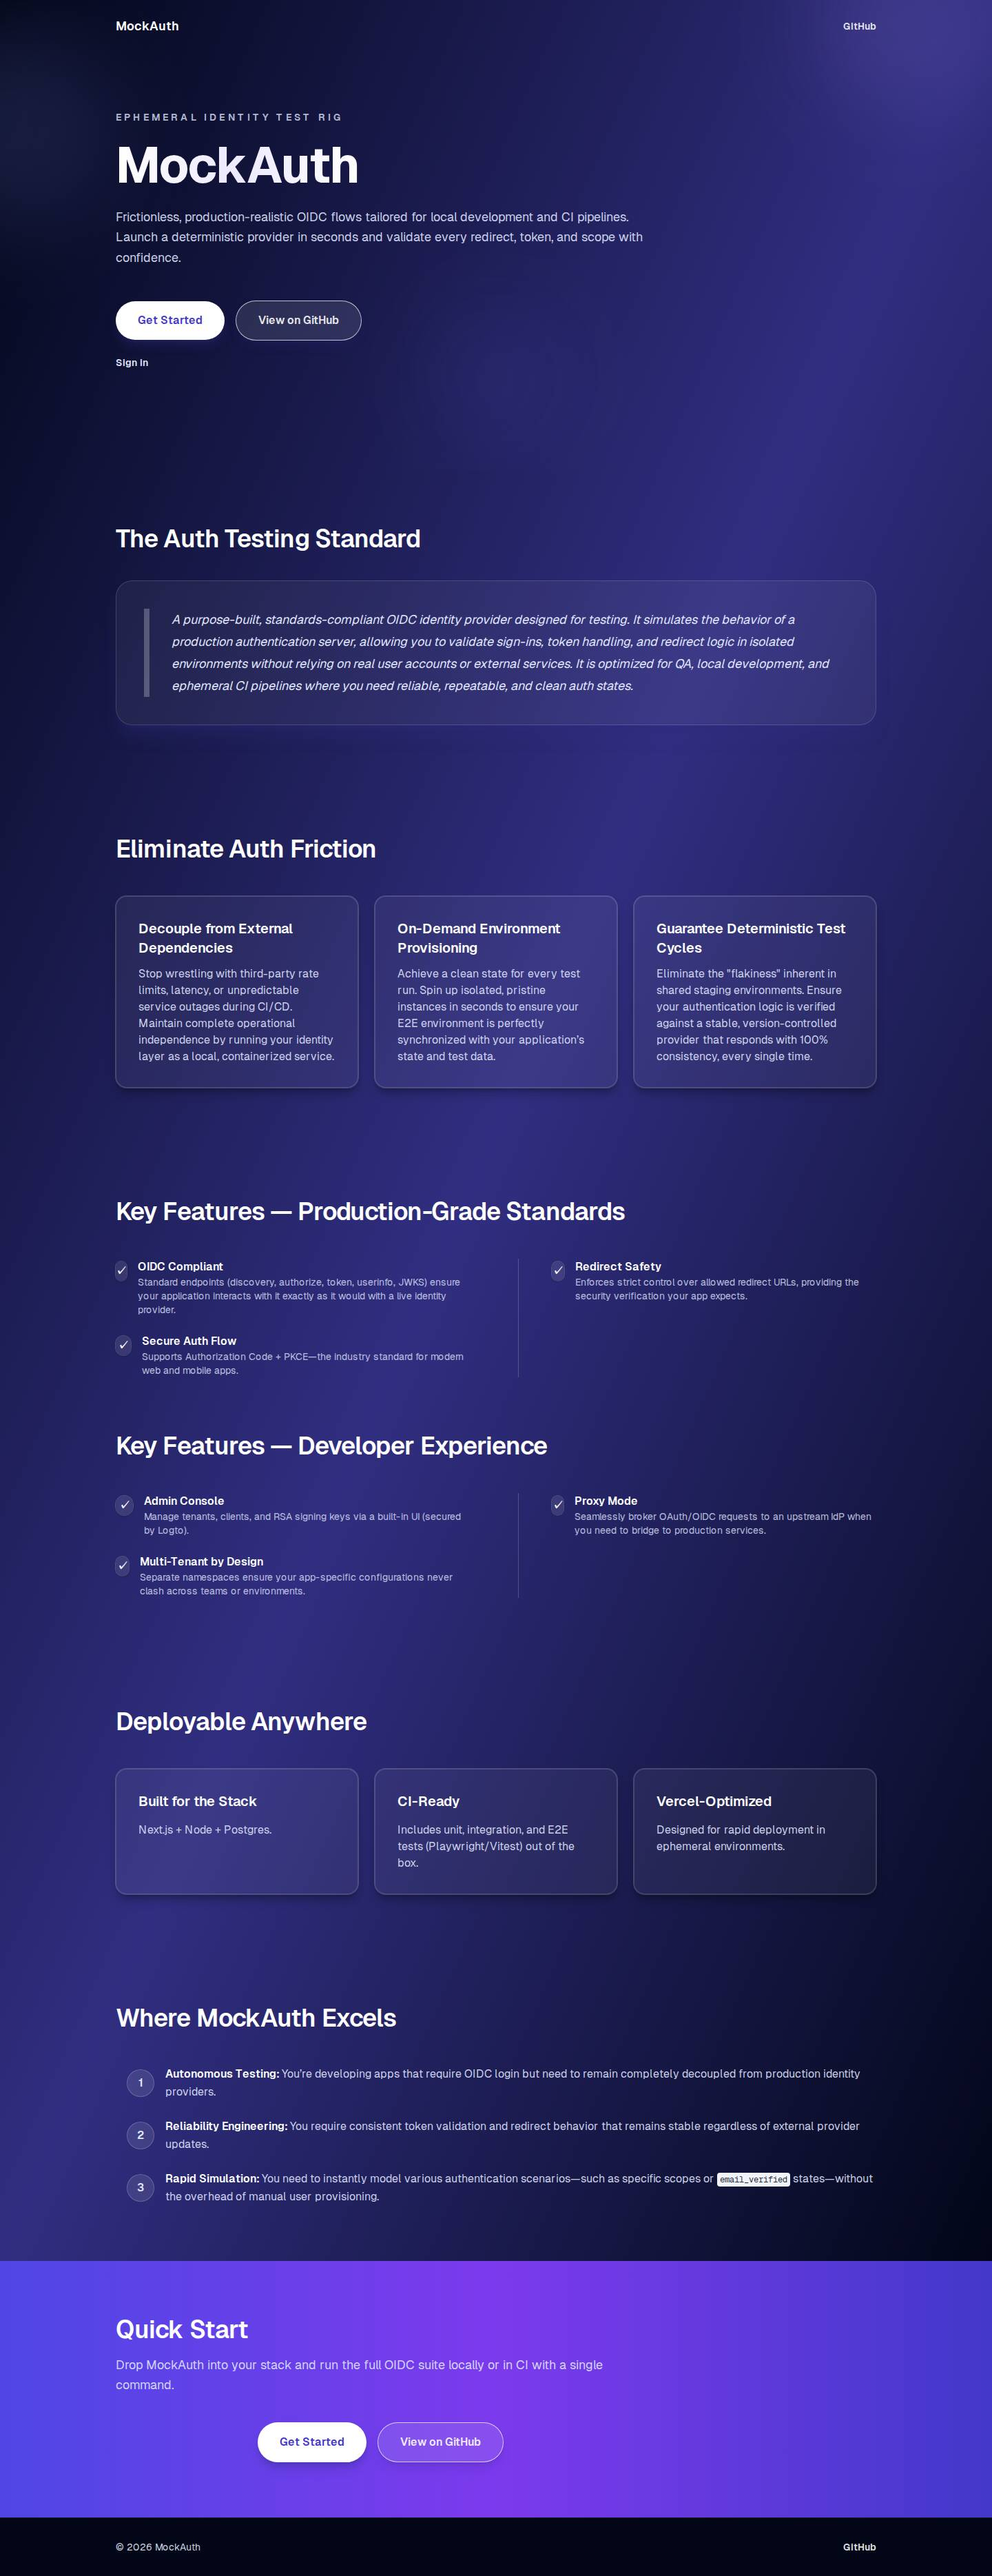
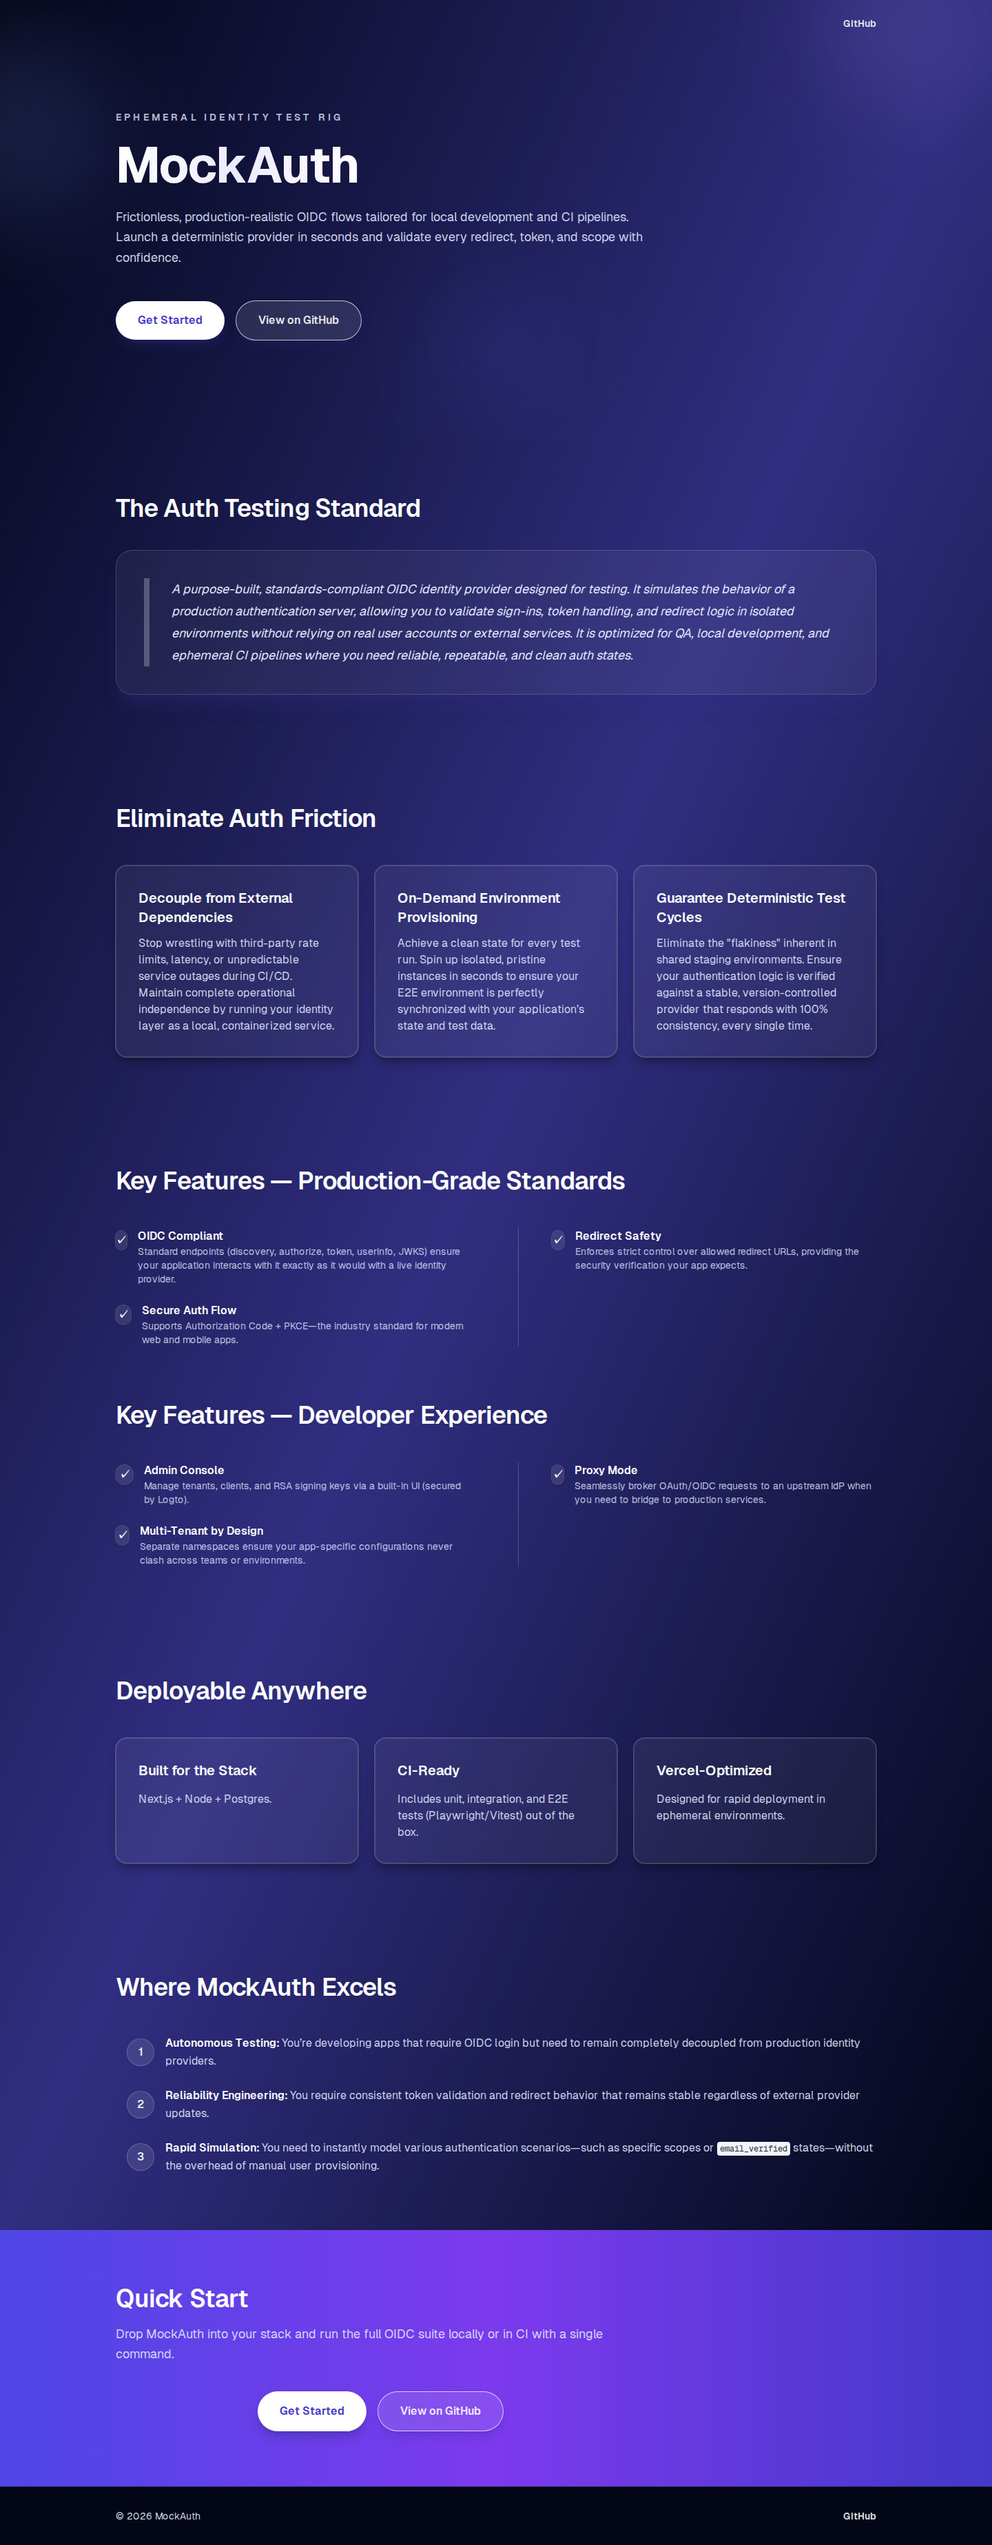
fix(landing): remove sign-in entry points

diff --git a/src/app/page.tsx b/src/app/page.tsx
@@ -1,5 +1,4 @@
 import type { ReactNode } from "react";
-import Link from "next/link";
 
 const frictionPoints = [
   {
@@ -116,13 +115,7 @@ export default function Home() {
   return (
     <div className="flex min-h-screen flex-col bg-slate-950 text-slate-100">
       <header className="absolute inset-x-0 top-0 z-20">
-        <div className="mx-auto flex max-w-6xl items-center justify-between px-6 py-6">
-          <Link
-            href="/"
-            className="text-lg font-semibold text-white focus-visible:outline focus-visible:outline-2 focus-visible:outline-offset-2 focus-visible:outline-white"
-          >
-            MockAuth
-          </Link>
+        <div className="mx-auto flex max-w-6xl items-center justify-end px-6 py-6">
           <a
             href="https://github.com/agynio/mockauth"
             target="_blank"
@@ -165,15 +158,6 @@ export default function Home() {
                   >
                     View on GitHub
                   </a>
-                </div>
-                <div className="mt-5">
-                  <Link
-                    data-testid="landing-sign-in-link"
-                    href="/api/auth/signin/logto?callbackUrl=/admin"
-                    className="text-sm font-semibold text-indigo-100 transition hover:text-white focus-visible:outline focus-visible:outline-2 focus-visible:outline-offset-2 focus-visible:outline-white"
-                  >
-                    Sign in
-                  </Link>
                 </div>
               </div>
             </div>

diff --git a/tests/e2e/signin-link.spec.ts b/tests/e2e/signin-link.spec.ts
@@ -1,6 +1,7 @@
 import { expect, test } from "@playwright/test";
 
 const repoUrl = "https://github.com/agynio/mockauth";
+const directSignInUrl = "/api/auth/signin/logto?callbackUrl=/admin";
 
 test("landing primary CTA is present with placeholder target", async ({ page }) => {
   await page.goto("/");
@@ -17,4 +18,21 @@ test("landing primary CTA is present with placeholder target", async ({ page }) 
     .getByRole("banner")
     .getByRole("link", { name: "GitHub" });
   await expect(headerGithub).toHaveAttribute("href", repoUrl);
+
+  await expect(page.getByRole("link", { name: "MockAuth" })).toHaveCount(0);
+  await expect(page.getByRole("link", { name: "Sign in" })).toHaveCount(0);
+});
+
+test("direct admin sign-in route lands on console", async ({ page, context, request }) => {
+  await context.clearCookies();
+  await request.delete("/api/test/logto/profile");
+  await request.post("/api/test/logto/profile", {
+    data: { email: "owner@example.test", sub: "landing-direct" },
+  });
+
+  await page.goto(directSignInUrl);
+  await expect(page.getByRole("button", { name: /logto/i })).toBeVisible();
+  await page.getByRole("button", { name: /logto/i }).click();
+  await page.waitForURL(/\/admin(\/clients)?$/);
+  await expect(page.getByRole("heading", { name: "Admin overview" })).toBeVisible();
 });
